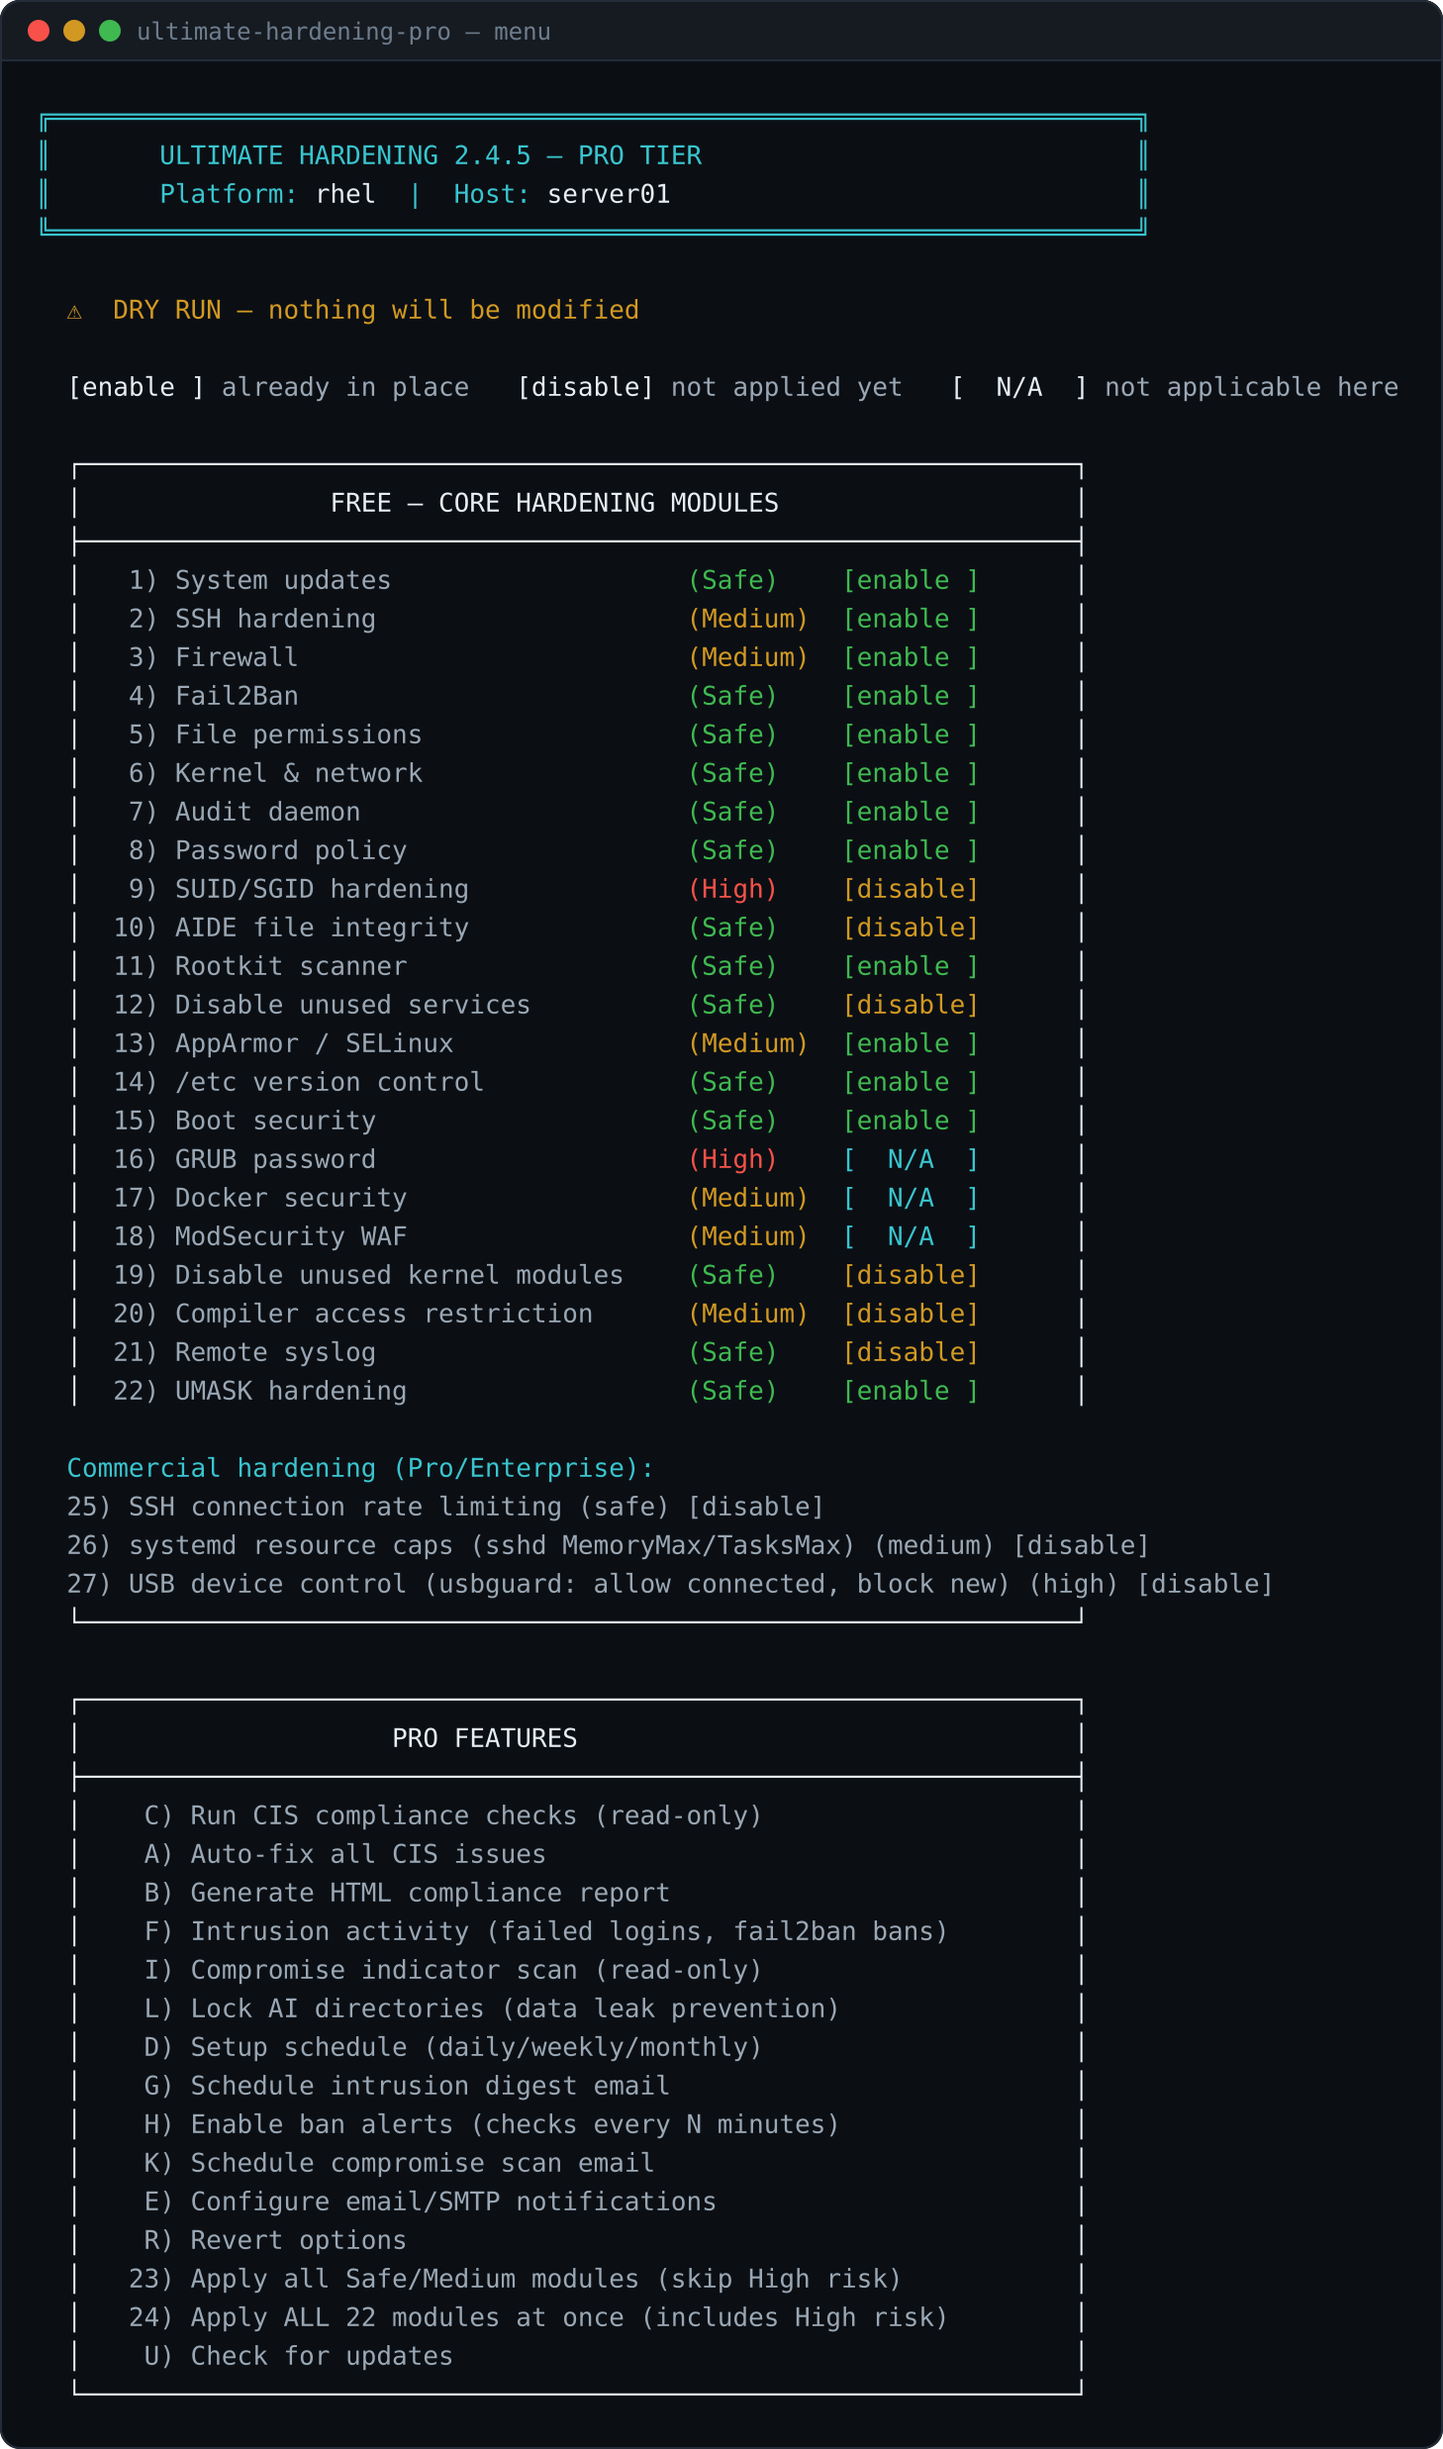
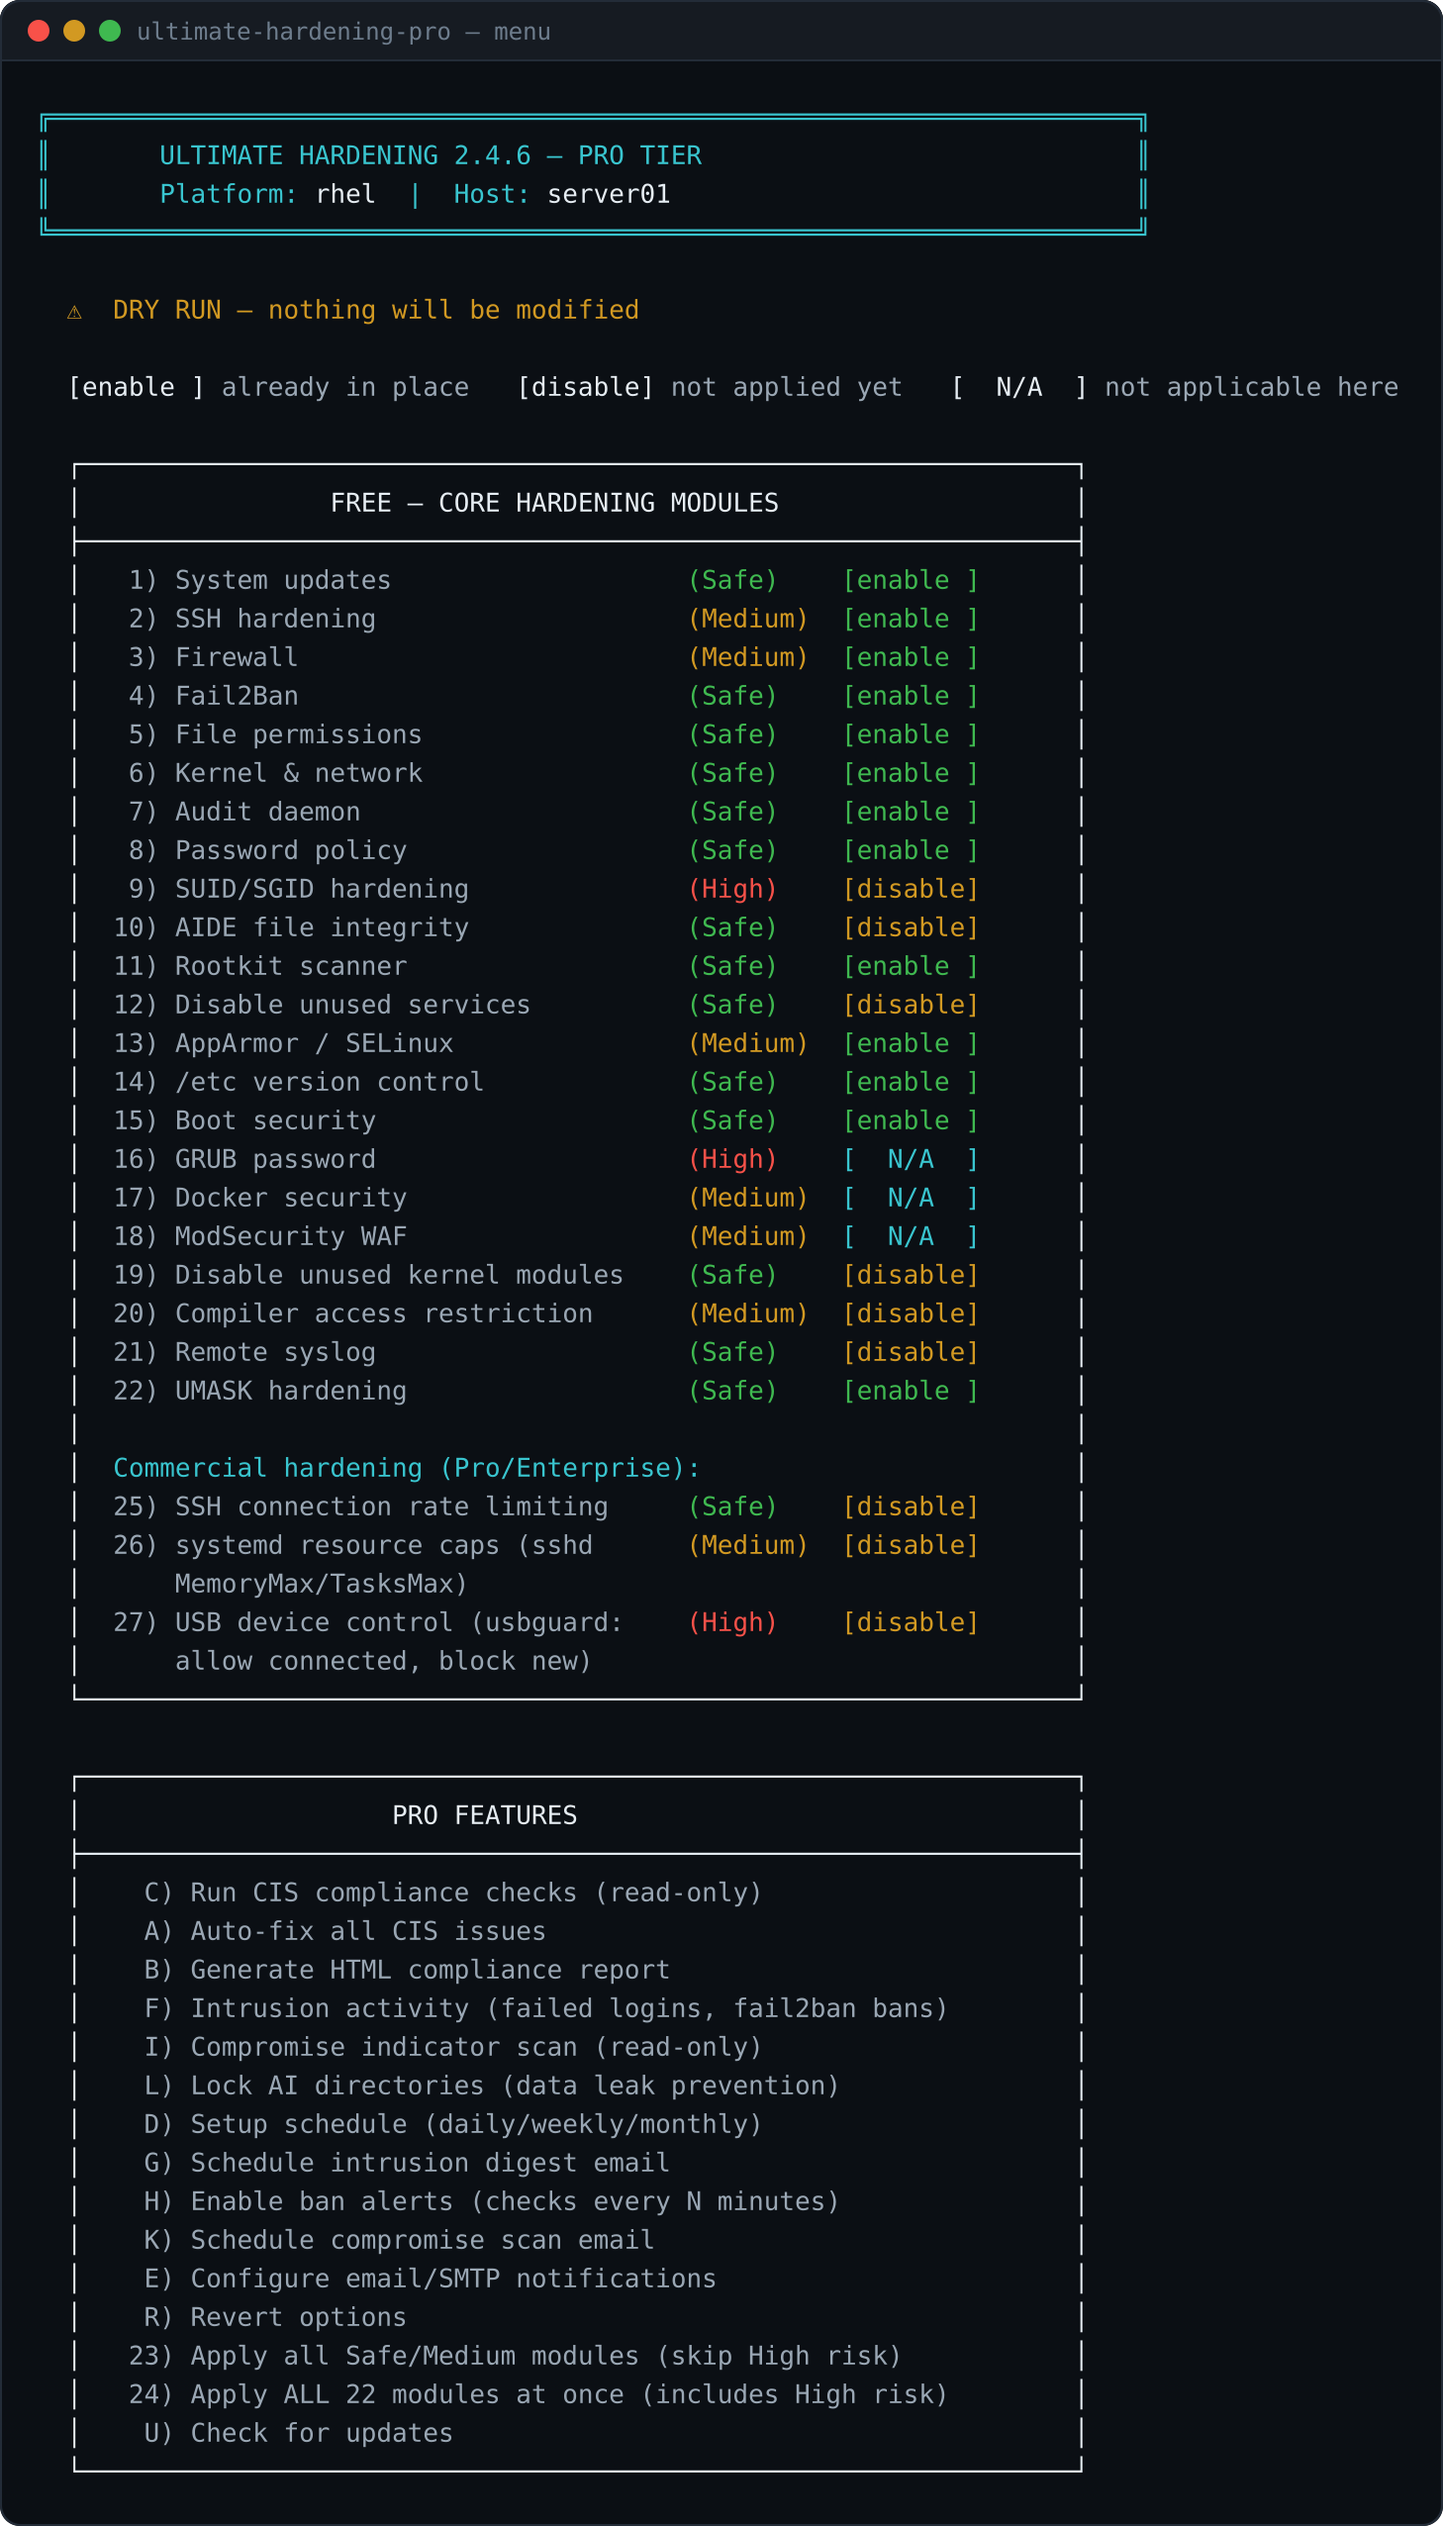
Refresh Pro menu and overview images, drop rendered-by notes from the site

Changed region(s): [[0.0309, 0.0311, 0.8025, 0.996], [0.5864, 0.2179, 0.679, 0.5602], [0.6173, 0.9337, 0.6481, 0.9648]]

diff --git a/docs/index.html b/docs/index.html
@@ -347,8 +347,7 @@
 </div>
   </div>
   <p class="hero-note">
-    Rendered from the tool's own menu code, not retyped —
-    <a href="#screenshots">see the real screenshots</a> or
+    <a href="#screenshots">See the real screenshots</a> or
     <a href="#pricing">what Pro adds</a> (coming soon).
   </p>
 </div>
@@ -386,11 +385,9 @@
     <div class="eyebrow">See it</div>
     <h2>The screens, not pictures of the screens</h2>
     <p class="lede" style="margin-bottom:32px">
-      Both of these are rendered from the tool's own code by
-      <code class="inline">docs/build-terminals.sh</code>, so they cannot drift
-      from what it actually prints. The module states and check results are
-      demo values — the layout, ordering, risk levels, remediation hints and
-      score arithmetic are the real thing.
+      The module states and check results are demo values — the layout,
+      ordering, risk levels, remediation hints and score arithmetic are the
+      real thing.
     </p>
 
     <div class="term term-wide">
@@ -514,7 +511,7 @@
 
     <figure class="shot shot-wide">
       <button type="button" data-full="images/menu-pro.png" aria-label="Enlarge: the Pro tier menu">
-        <img src="images/menu-pro.png" alt="The Pro tier menu: the same 22 free core hardening modules in one panel, and a second panel of Pro-only features including CIS auto-fix, HTML compliance reports, AI directory locking, scheduling and email notifications." loading="lazy" width="729" height="1237">
+        <img src="images/menu-pro.png" alt="The Pro tier menu: the same 22 free core hardening modules in one panel, and a second panel of Pro-only features including CIS auto-fix, HTML compliance reports, AI directory locking, scheduling and email notifications." loading="lazy" width="729" height="1276">
       </button>
       <figcaption><b>What the paid tiers add (coming soon)</b>The Pro menu keeps all 22 free modules and adds a second panel. Nothing is taken out of the free tier.</figcaption>
     </figure>
